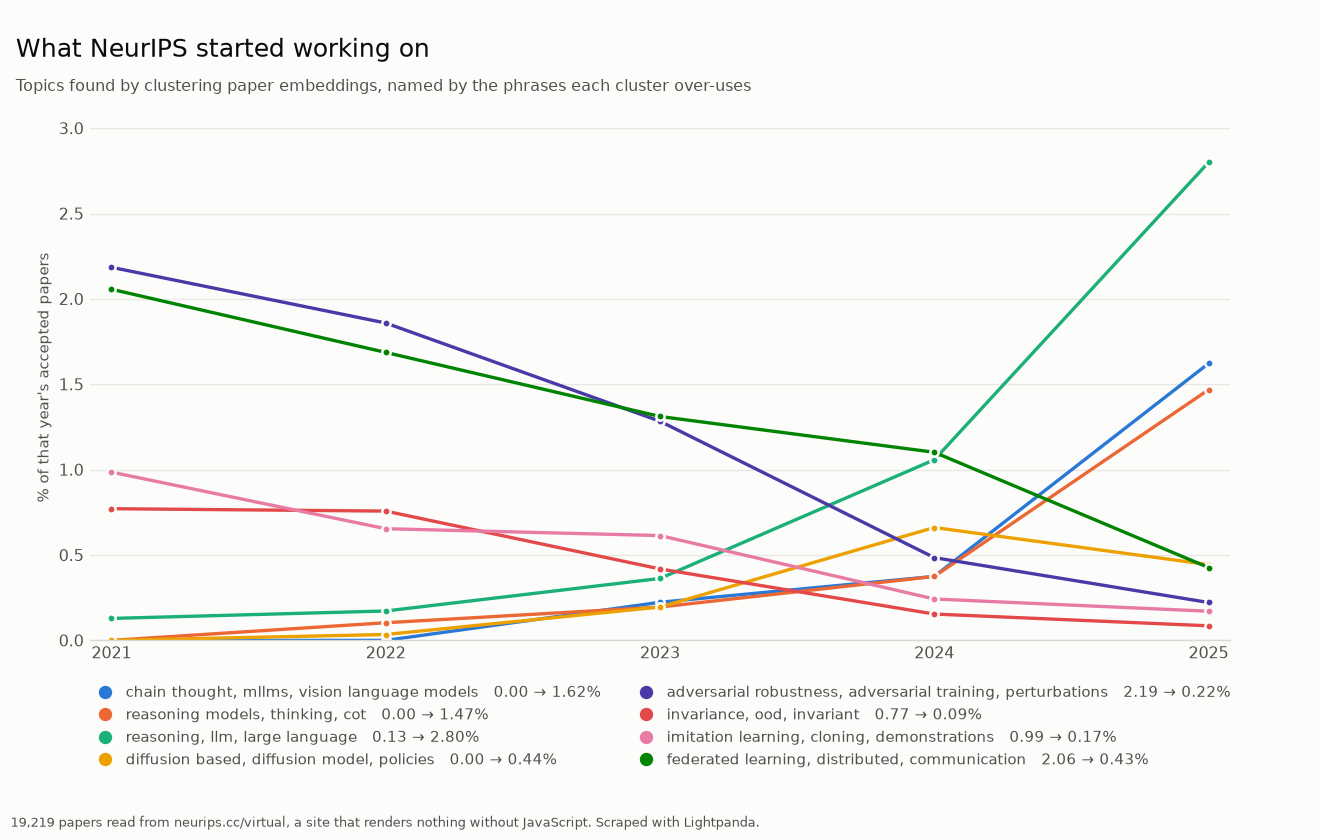
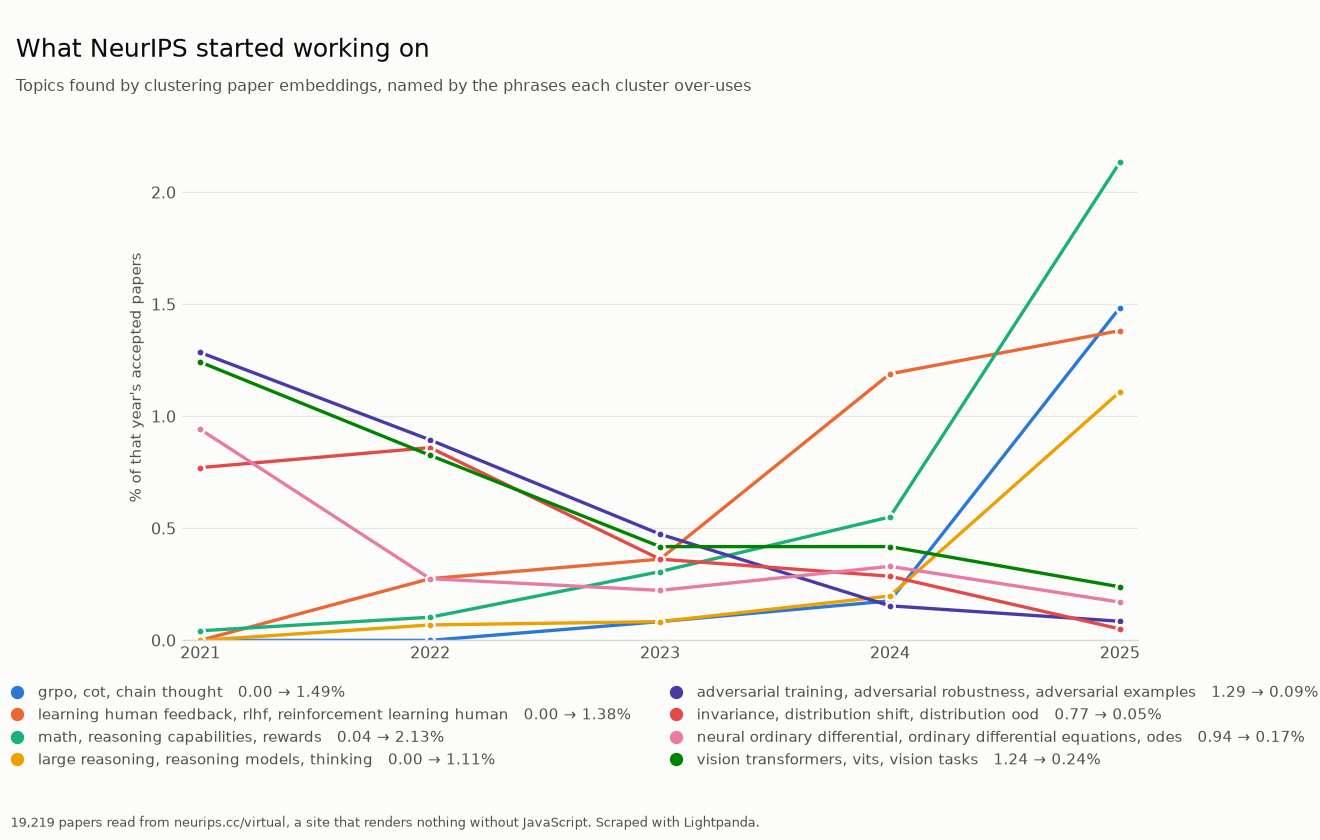
examples: link all pairs above a threshold instead of k nearest neighbours
Capping each paper at 15 neighbours was a guess that a sweep did not support.
Comparing every pair and keeping those above 0.875 gives better topics: it
surfaces RLHF, neural ODEs and vision transformers as distinct trends, where
the capped graph split one reasoning topic three ways. Coverage rises from 40%
to 58% of papers.

It is also smaller and faster. At 0.875 the all-pairs graph holds 206,780
edges, fewer than the 15-neighbour graph's 263,036, because the higher bar more
than pays for comparing everyone. The whole run drops from 10.9 s to 8.8 s and
one parameter disappears.

The threshold sweep is in the README, since the useful range is narrow: at 0.850
a single cluster swallows a fifth of the conference, and by 0.880 the graph is
falling into fragments.

Also recorded there: dlib is not needed. Building the graph is numpy either way
at 2.5 s, and the propagation is 0.88 s in Python against 0.38 s in dlib's C++,
which does not pay for a source build needing CMake and a C++ toolchain.

diff --git a/examples/neurips_topics.py b/examples/neurips_topics.py
@@ -14,11 +14,12 @@ from it, so reading the DOM would still miss most of the conference.
 Lightpanda runs the page and reads that array instead, one browser per year and
 five years at once: 19,219 papers with abstracts, in about a minute.
 
-Those are embedded once, then clustered by Chinese Whispers: every paper starts
-as its own topic and repeatedly adopts the majority topic of its nearest
-neighbours. No number of clusters is chosen and nothing is forced into a bucket
--- a paper with no close neighbours simply stays alone. Each cluster is named by
-the phrases its papers use far more than the conference does.
+Those are embedded once, then clustered by Chinese Whispers: link every pair of
+papers that is alike enough, then let each paper repeatedly adopt the
+weighted-majority topic of whatever it is linked to. No number of clusters is
+chosen and nothing is forced into a bucket -- a paper linked to nothing simply
+stays alone. Each cluster is named by the phrases its papers use far more than
+the conference does.
 
 What comes out is the shape of the field: "3d gaussian splatting" appears from
 nothing in 2024, "kv cache, long context" rises tenfold, "federated" and
@@ -36,6 +37,7 @@ import os
 import re
 import sys
 import time
+from collections import defaultdict
 from pathlib import Path
 
 import numpy as np
@@ -177,52 +179,50 @@ def embed_corpus(df: pd.DataFrame, key: str | None, cache: Path) -> np.ndarray:
     return np.stack([store[k] for k in keys]).astype(np.float32)
 
 
-def neighbours(X: np.ndarray, k: int) -> tuple[np.ndarray, np.ndarray]:
-    """For every paper, its k nearest others, in chunks so the full matrix never exists."""
-    n = len(X)
-    idx = np.empty((n, k), dtype=np.int32)
-    sim = np.empty((n, k), dtype=np.float32)
-    for i in range(0, n, 2000):
+def graph(X: np.ndarray, threshold: float) -> dict[int, list[tuple[int, float]]]:
+    """Every pair of papers more alike than `threshold`, as an adjacency list.
+
+    Compared in chunks, so the 185 million possible pairs never exist at once. The bar is
+    high enough that what survives is small: about 200,000 edges out of those millions.
+    """
+    adjacency: dict[int, list[tuple[int, float]]] = defaultdict(list)
+    for i in range(0, len(X), 2000):
         block = X[i:i + 2000] @ X.T
         for row in range(len(block)):
-            block[row, i + row] = -1  # a paper is not its own neighbour
-        top = np.argpartition(-block, k, axis=1)[:, :k]
-        scores = np.take_along_axis(block, top, axis=1)
-        order = np.argsort(-scores, axis=1)
-        idx[i:i + 2000] = np.take_along_axis(top, order, axis=1)
-        sim[i:i + 2000] = np.take_along_axis(scores, order, axis=1)
-    return idx, sim
+            block[row, :i + row + 1] = -1  # upper triangle: count each pair once
+        for r, c in zip(*np.where(block > threshold)):
+            a, b, weight = int(r) + i, int(c), float(block[r, c])
+            adjacency[a].append((b, weight))
+            adjacency[b].append((a, weight))
+    return adjacency
 
 
-def whisper(idx: np.ndarray, sim: np.ndarray, threshold: float, rounds: int = 8) -> np.ndarray:
-    """Chinese Whispers: take the weighted-majority label of your close neighbours, repeatedly.
+def whisper(adjacency: dict[int, list[tuple[int, float]]], n: int, rounds: int = 8) -> np.ndarray:
+    """Chinese Whispers: take the weighted-majority label of your neighbours, repeatedly.
 
     Unlike k-means this needs no k, and unlike a nearest-topic assignment it leaves papers
     with no close neighbour in a cluster of their own rather than forcing them somewhere.
     """
     rng = np.random.default_rng(0)
-    label = np.arange(len(idx))
-    close = sim > threshold
+    label = np.arange(n)
     for _ in range(rounds):
-        for i in rng.permutation(len(idx)):
-            others, weights = idx[i][close[i]], sim[i][close[i]]
-            if len(others) == 0:
+        for i in rng.permutation(n):
+            if not (close := adjacency.get(i)):
                 continue
-            tally: dict[int, float] = {}
-            for other, weight in zip(label[others], weights):
-                tally[other] = tally.get(other, 0.0) + float(weight)
+            tally: dict[int, float] = defaultdict(float)
+            for j, weight in close:
+                tally[label[j]] += weight
             label[i] = max(tally, key=tally.get)
     return label
 
 
-def topics(df: pd.DataFrame, X: np.ndarray, k: int, threshold: float,
-           min_size: int) -> pd.DataFrame:
+def topics(df: pd.DataFrame, X: np.ndarray, threshold: float, min_size: int) -> pd.DataFrame:
     """Cluster the papers, name each cluster, and measure its share of every year."""
     from sklearn.feature_extraction.text import CountVectorizer
 
     print(f"  clustering {len(df):,} papers ...", file=sys.stderr)
-    idx, sim = neighbours(X, k)
-    label = whisper(idx, sim, threshold)
+    adjacency = graph(X, threshold)
+    label = whisper(adjacency, len(df))
 
     vec = CountVectorizer(ngram_range=(1, 3), min_df=10, max_df=0.3, stop_words="english",
                           binary=True)
@@ -251,7 +251,8 @@ def topics(df: pd.DataFrame, X: np.ndarray, k: int, threshold: float,
         rows[name(members)] = [members[(df["year"] == y).to_numpy()].mean() * 100 for y in years]
     clusters = len(sizes)
     named = pd.DataFrame(rows, index=pd.Index(years, name="year"))
-    print(f"  {clusters:,} clusters, {named.shape[1]} with {min_size}+ papers, "
+    edges = sum(len(v) for v in adjacency.values()) // 2
+    print(f"  {edges:,} edges, {clusters:,} clusters, {named.shape[1]} with {min_size}+ papers, "
           f"{(sizes[sizes >= min_size].sum() / len(df)):.0%} of papers in one", file=sys.stderr)
     return named
 
@@ -347,10 +348,8 @@ if __name__ == "__main__":
     parser.add_argument("--years", nargs="+", type=int, default=YEARS, metavar="YEAR",
                         help=f"NeurIPS years to read (default: {YEARS[0]}-{YEARS[-1]})")
     parser.add_argument("--top", type=int, default=8, metavar="N", help="results to show (default: 8)")
-    parser.add_argument("--neighbours", type=int, default=15, metavar="K",
-                        help="nearest neighbours per paper in the graph (default: 15)")
-    parser.add_argument("--threshold", type=float, default=0.85, metavar="S",
-                        help="similarity an edge needs to count (default: 0.85)")
+    parser.add_argument("--threshold", type=float, default=0.875, metavar="S",
+                        help="similarity two papers need to be linked (default: 0.875)")
     parser.add_argument("--min-size", type=int, default=60, metavar="N",
                         help="smallest cluster to report (default: 60)")
     parser.add_argument("--cache", type=Path, default=default_cache(), metavar="PATH",
@@ -378,6 +377,6 @@ if __name__ == "__main__":
     if args.query:  # the embeddings are paid for, so searching them is free
         show(df, X, key, " ".join(args.query), args.top)
     else:
-        pct = topics(df, X, args.neighbours, args.threshold, args.min_size)
+        pct = topics(df, X, args.threshold, args.min_size)
         report(pct, df.groupby("year").size())
         plot(pct, Path(__file__).with_name("neurips_topics.png"), len(df))

diff --git a/examples/README.md b/examples/README.md
@@ -94,27 +94,27 @@ papers with abstracts**. (Several sessions inside one process contend badly on
 this workload and most of them fail; separate processes are both reliable and
 faster.)
 
-Those get embedded once and clustered by **Chinese Whispers**: every paper
-starts as its own topic, then repeatedly adopts the weighted-majority topic of
-its nearest neighbours. No number of clusters is chosen, and a paper with no
-close neighbour simply stays on its own instead of being forced somewhere. Each
-cluster is then named by the phrases its papers use far more than the rest of
-the conference does.
+Those get embedded once and clustered by **Chinese Whispers**. Link every pair
+of papers alike enough to be worth linking, then let each paper repeatedly adopt
+the weighted-majority topic of whatever it is linked to. No number of clusters
+is chosen, and a paper linked to nothing stays on its own instead of being
+forced somewhere. Each cluster is then named by the phrases its papers use far
+more than the rest of the conference does.
 
 Nothing supplies a topic list. This is the whole output:
 
 ```
-735 clusters, 88 with 60+ papers, 52% of papers in one
+206,780 edges, 2,511 clusters, 66 with 60+ papers, 58% of papers in one
 
-year                                                         2021  2022  2023  2024  2025
-chain thought, mllms, vision language models                 0.00  0.00  0.22  0.37  1.62
-reasoning models, thinking, cot                              0.00  0.10  0.20  0.37  1.47
-reasoning, llm, large language                               0.13  0.17  0.36  1.06  2.80
-diffusion based, diffusion model, policies                   0.00  0.03  0.20  0.66  0.44
-adversarial robustness, adversarial training, perturbations  2.19  1.86  1.28  0.48  0.22
-invariance, ood, invariant                                   0.77  0.76  0.42  0.15  0.09
-imitation learning, cloning, demonstrations                  0.99  0.65  0.61  0.24  0.17
-federated learning, distributed, communication               2.06  1.69  1.31  1.10  0.43
+year                                                                 2021  2022  2023  2024  2025
+grpo, cot, chain thought                                             0.00  0.00  0.08  0.18  1.49
+learning human feedback, rlhf, reinforcement learning human          0.00  0.28  0.36  1.19  1.38
+math, reasoning capabilities, rewards                                0.04  0.10  0.31  0.55  2.13
+large reasoning, reasoning models, thinking                          0.00  0.07  0.08  0.20  1.11
+adversarial training, adversarial robustness, adversarial examples   1.29  0.90  0.47  0.15  0.09
+invariance, distribution shift, distribution ood                     0.77  0.86  0.36  0.29  0.05
+neural ordinary differential, ordinary differential equations, odes  0.94  0.28  0.22  0.33  0.17
+vision transformers, vits, vision tasks                              1.24  0.83  0.42  0.42  0.24
 ```
 
 ![neurips_topics.png](neurips_topics.png)
@@ -154,12 +154,35 @@ to 0.90, so anything that compares a paper against a *global* bar drowns in the
 question. It only asks which papers are near each other, and relative
 neighbourhood structure survives the compression intact.
 
-Two parameters remain, `--neighbours` (15) and `--threshold` (0.85), but they
-shape the graph rather than draw a classification boundary, and the cluster
-count is stable from 0.80 to 0.87. The clusters are reproducible in character
-rather than identical: rerun against different embeddings and "reasoning, llm"
-and "federated learning" reliably appear, while the precise split between
-neighbouring clusters moves.
+One parameter remains, `--threshold`, and it decides how alike two papers must
+be to be linked at all. It is worth seeing what it does, because the useful
+range is narrow:
+
+| threshold | edges | clusters | largest | 60+ | covered |
+|---|---|---|---|---|---|
+| 0.850 | 905,099 | 289 | 18.7% | 31 | 94% |
+| 0.860 | 520,105 | 671 | 16.8% | 52 | 88% |
+| 0.870 | 284,891 | 1496 | 10.6% | 56 | 73% |
+| **0.875** | **206,780** | **2149** | **5.4%** | **61** | **65%** |
+| 0.880 | 147,231 | 3041 | 6.9% | 58 | 55% |
+
+Too low and the graph percolates: at 0.850 a single blob swallows a fifth of the
+conference. Too high and it falls apart into fragments nobody is linked to.
+0.875 is where the largest cluster is smallest while most papers still have
+company.
+
+The clusters are reproducible in character rather than identical. Rerun against
+different embeddings and reasoning, RLHF and adversarial robustness reliably
+appear, while the precise split between adjacent clusters moves.
+
+**On dlib**, which has a well-known Chinese Whispers implementation: it is not
+needed here. Building the graph is numpy work either way and takes 2.5 s; the
+propagation itself is 0.88 s in plain Python against 0.38 s in dlib's C++. Half
+a second does not pay for a source build needing CMake and a C++ toolchain, and
+writing the loop out means the example can show the algorithm rather than hide
+it behind a call. (dlib's own all-in-one `chinese_whispers_clustering`, which
+builds edges itself, is far slower still — about 80× — because it does the
+pairwise comparison in Python objects rather than in numpy.)
 
 ### Which model
 
